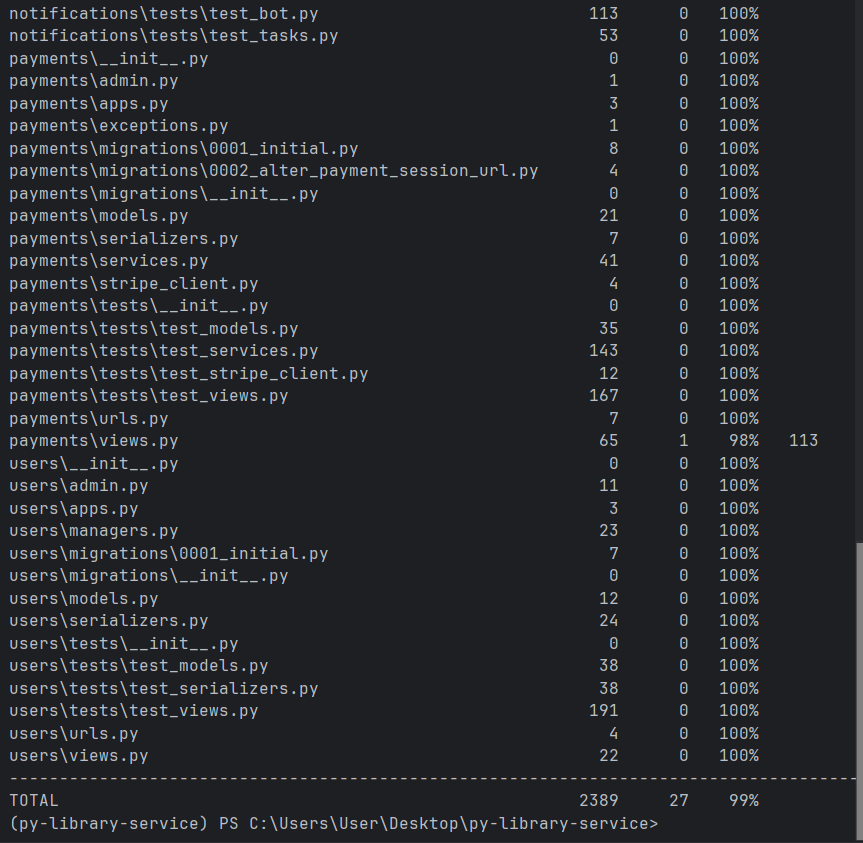
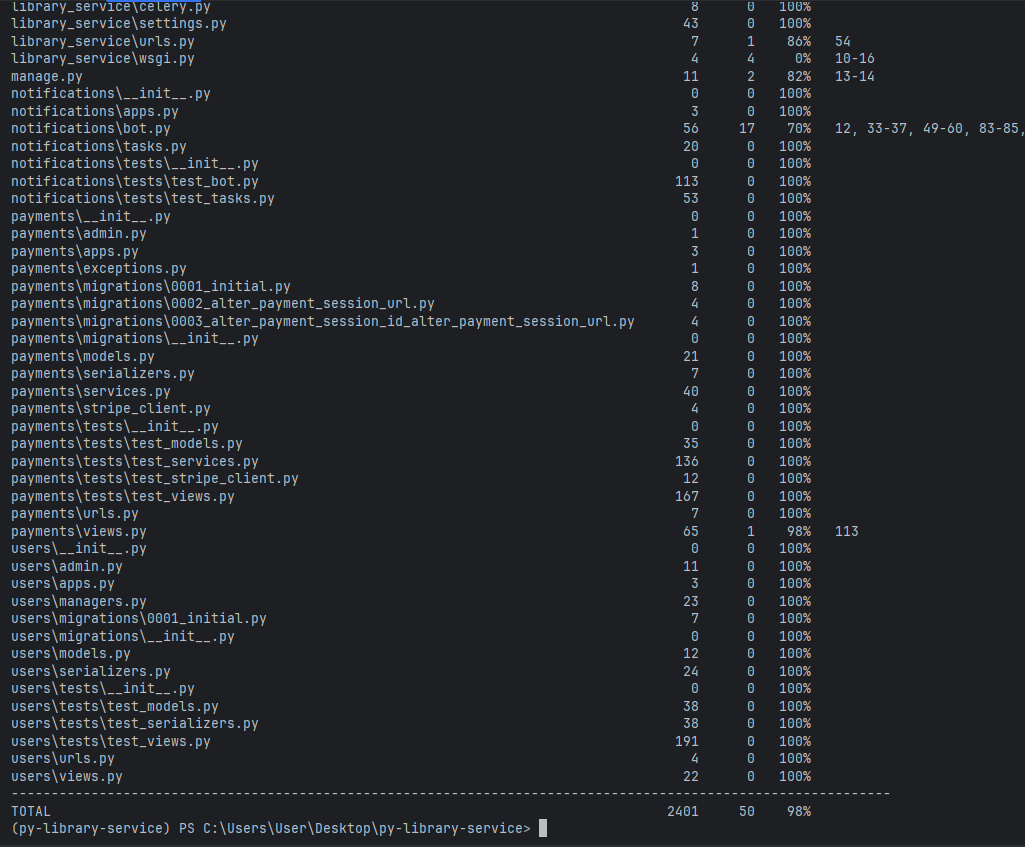
docs: update test count and coverage report

Changed region(s): [[0.0, 0.0, 0.9942, 0.987], [0.9641, 0.6168, 1.0, 1.0]]

diff --git a/README.md b/README.md
@@ -14,7 +14,7 @@
 [![Docker](https://img.shields.io/badge/Docker-Compose-2496ED?style=for-the-badge&logo=docker&logoColor=white)](https://www.docker.com/)
 
 [![Tests and code quality](https://github.com/otakuc0der/py-library-service/actions/workflows/tests-and-code-quality.yml/badge.svg)](https://github.com/otakuc0der/py-library-service/actions/workflows/tests-and-code-quality.yml)
-![Tests](https://img.shields.io/badge/tests-220%20passed-brightgreen?style=flat-square)
+![Tests](https://img.shields.io/badge/tests-218%20passed-brightgreen?style=flat-square)
 ![Code style](https://img.shields.io/badge/code%20style-black-000000?style=flat-square)
 ![Lint](https://img.shields.io/badge/lint-flake8-4B8BBE?style=flat-square)
 
